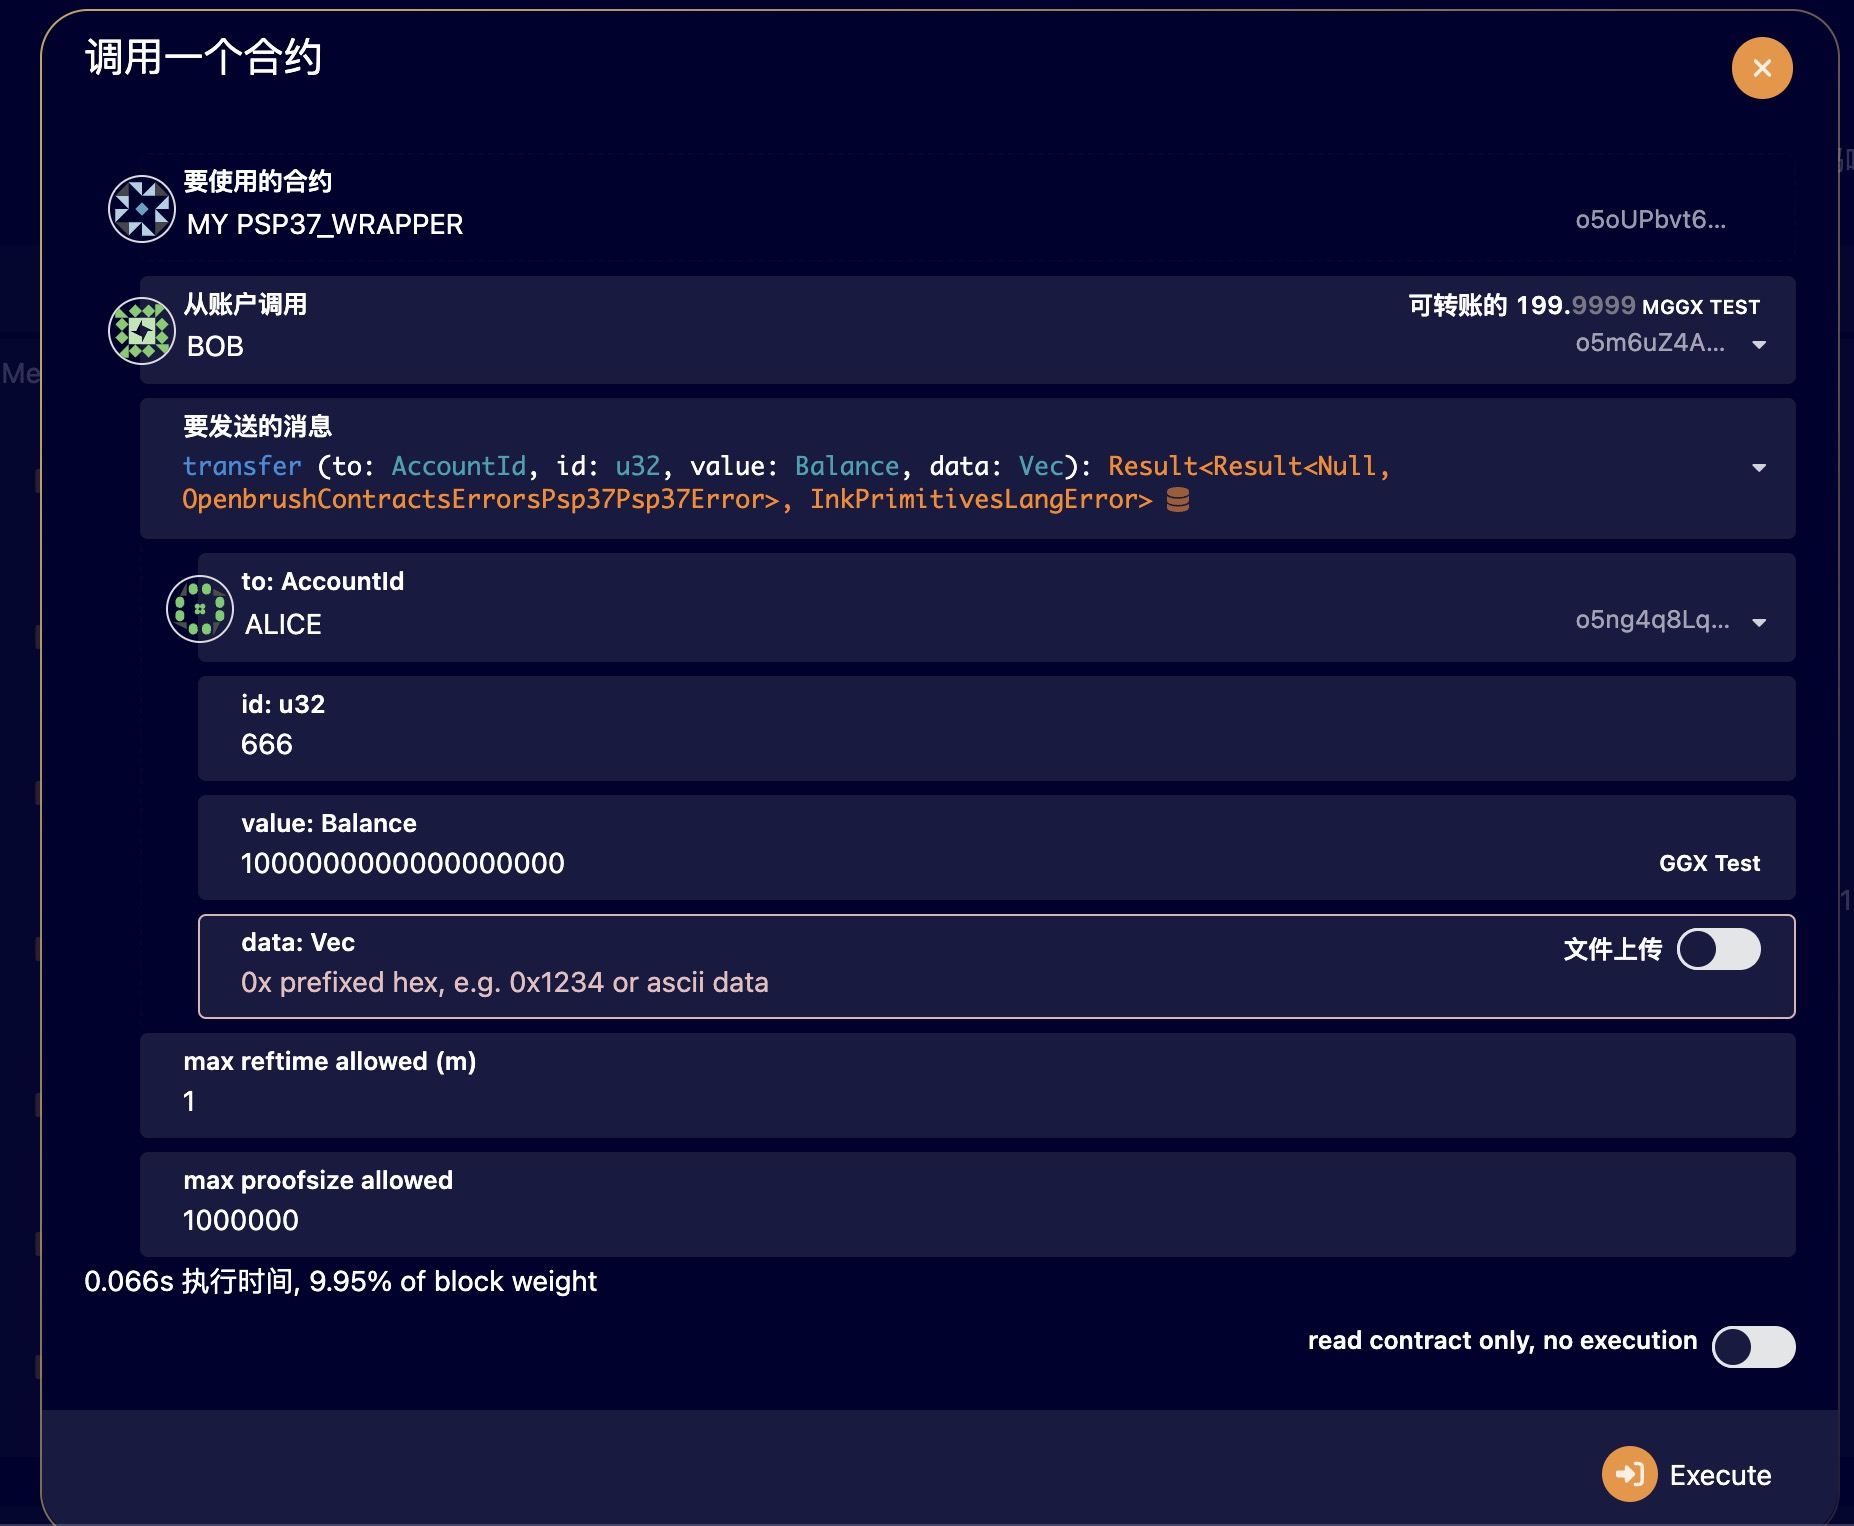
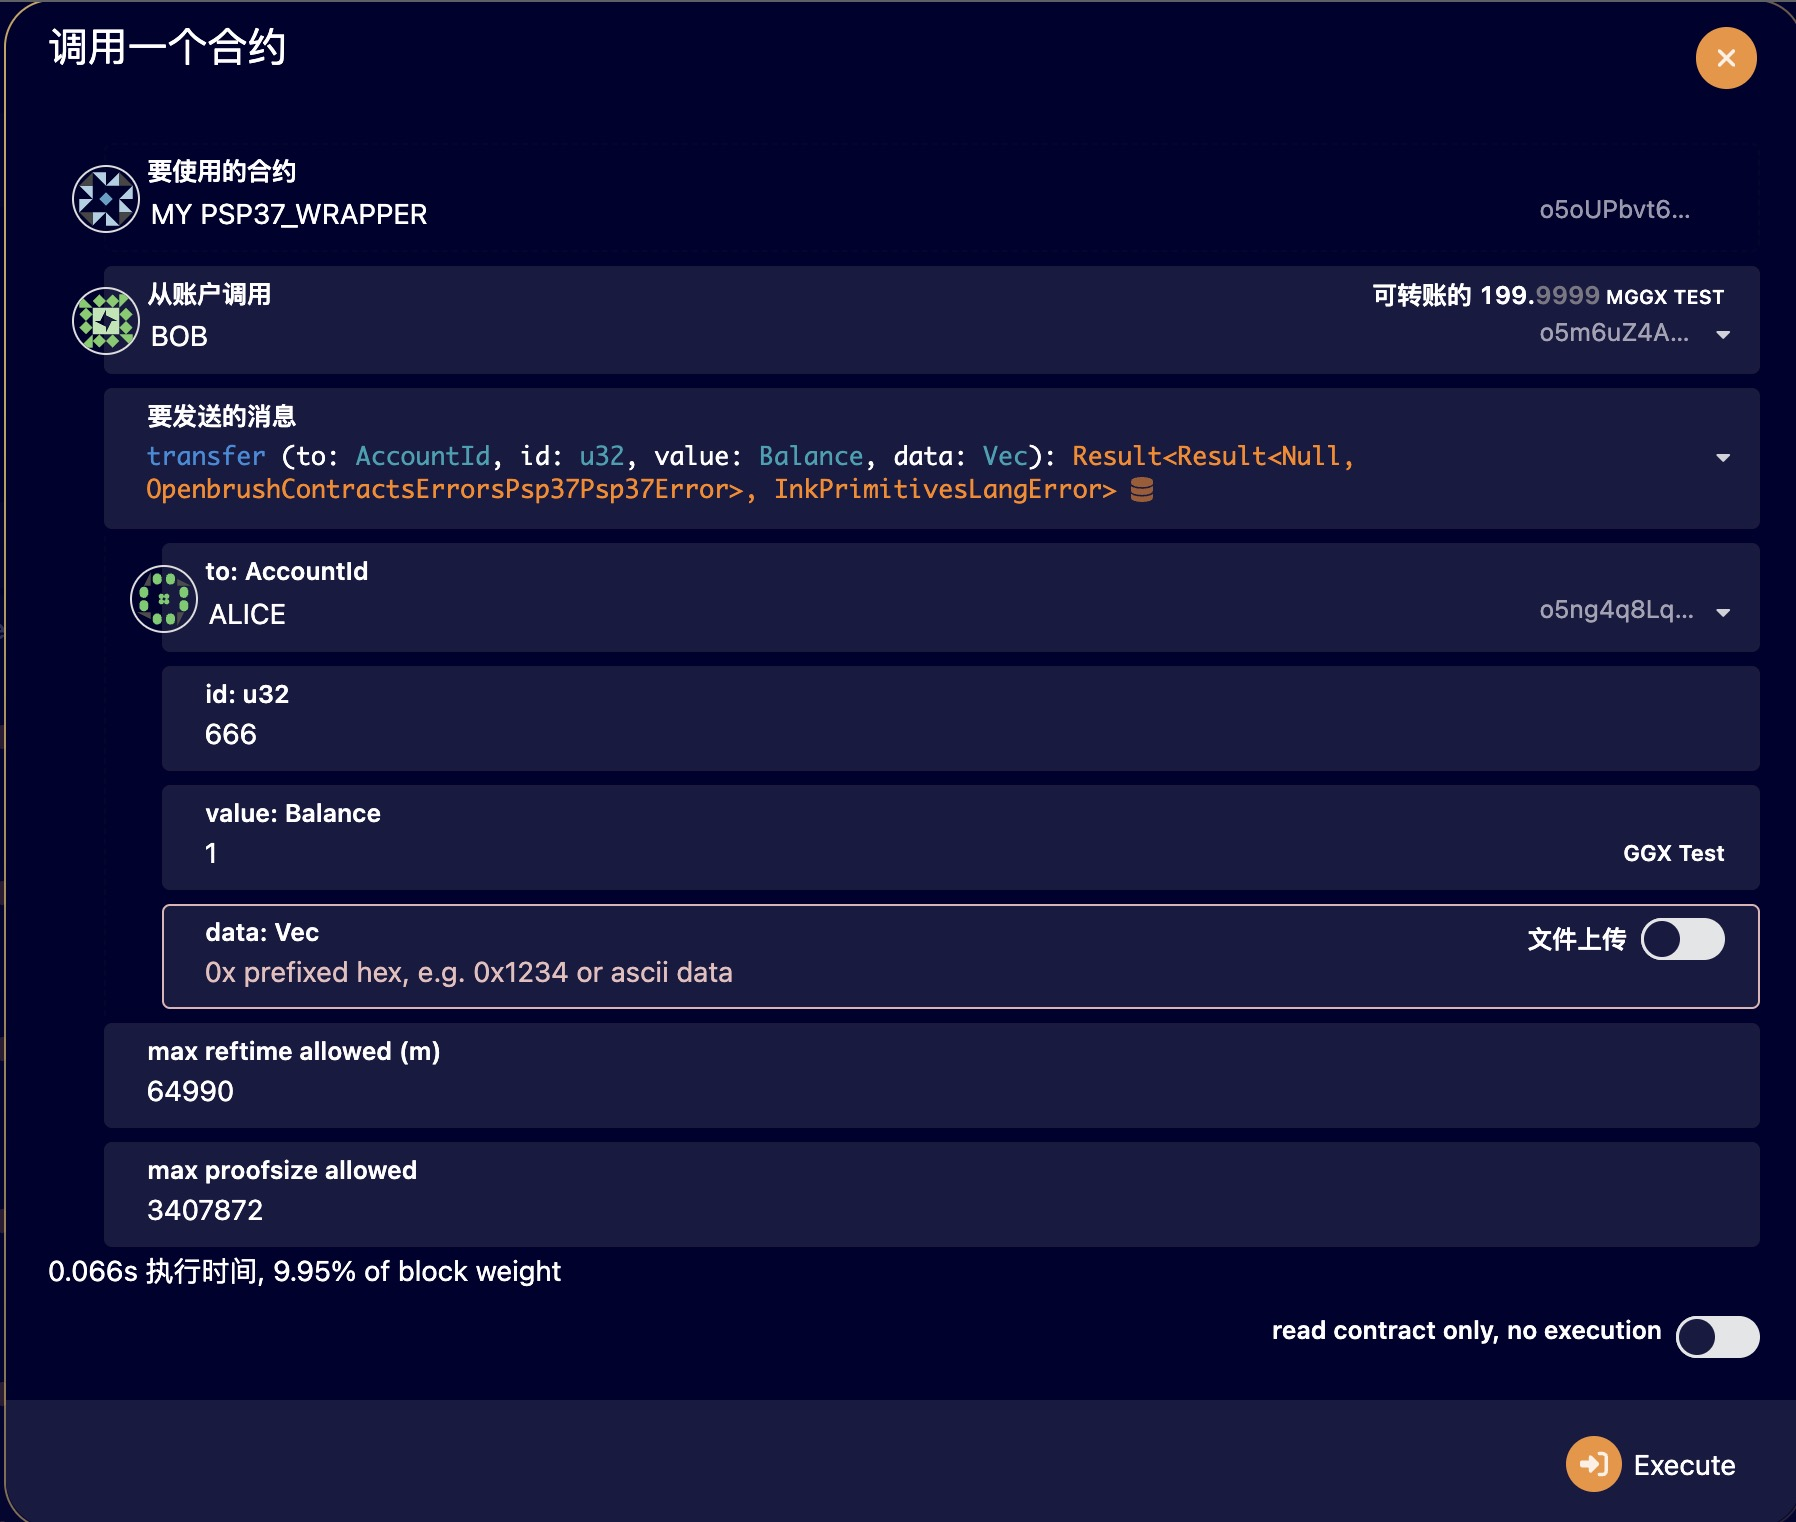
update img

diff --git a/testpsp37.md b/testpsp37.md
@@ -60,18 +60,25 @@ call psp37_wrapper->allowance(BOB, ALICE, 666)
 ![params](./img/psp37-7.jpg)
 ```
 open page https://polkadot.js.org/apps/#/contracts
-call psp37_wrapper->transfer(ALICE, 666, 1000000000000000000, None)
-```
-
-# test transfer_from
-![params](./img/psp37-8.jpg)
-```
-open page https://polkadot.js.org/apps/#/contracts
-call psp37_wrapper->transferFrom(BOB, ALICE, 666, 1000000000000000000, None)
+call psp37_wrapper->transfer(ALICE, 666, 1, None)
 ```
 
 # check alice balance
-![params](./img/psp37-49.jpg)
+![params](./img/psp37-8.jpg)
+```
+open page https://polkadot.js.org/apps/#/contracts
+call psp37_wrapper->balanceOf(ALICE, 666)
+```
+
+# test transfer_from
+![params](./img/psp37-9.jpg)
+```
+open page https://polkadot.js.org/apps/#/contracts
+ALICE call psp37_wrapper->transferFrom(BOB, ALICE, 666, 1, None)
+```
+
+# check alice balance
+![params](./img/psp37-10.jpg)
 ```
 open page https://polkadot.js.org/apps/#/contracts
 call psp37_wrapper->balanceOf(ALICE, 666)
